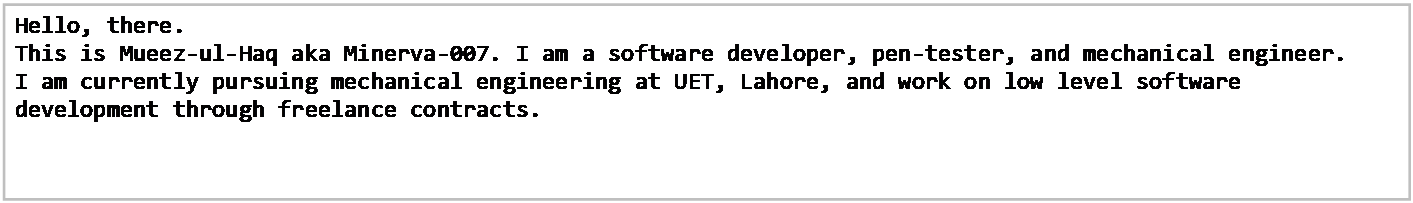
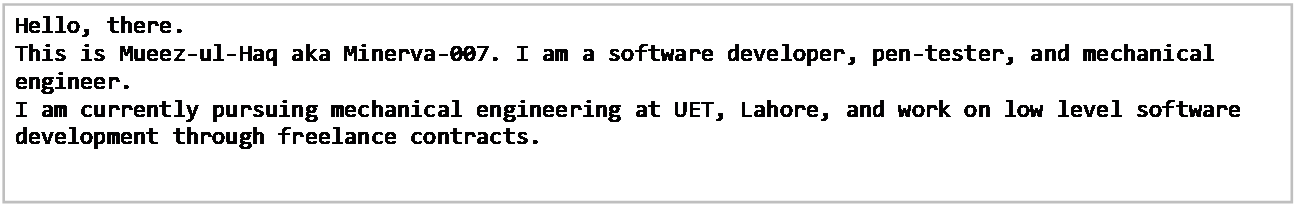
Web building day 1
Adjusting size

diff --git a/index.html b/index.html
@@ -22,10 +22,10 @@ w\:* {behavior:url(#default#VML);}
  <o:DocumentProperties>
   <o:Author>Minerva_007</o:Author>
   <o:LastAuthor>Minerva_007</o:LastAuthor>
-  <o:Revision>3</o:Revision>
-  <o:TotalTime>3</o:TotalTime>
+  <o:Revision>5</o:Revision>
+  <o:TotalTime>19</o:TotalTime>
   <o:Created>2022-06-04T18:52:00Z</o:Created>
-  <o:LastSaved>2022-06-04T18:55:00Z</o:LastSaved>
+  <o:LastSaved>2022-06-04T19:11:00Z</o:LastSaved>
   <o:Pages>1</o:Pages>
   <o:Words>2</o:Words>
   <o:Characters>14</o:Characters>
@@ -827,7 +827,7 @@ mso-bidi-font-size:11.0pt;line-height:115%;font-family:"Segoe Print"'><o:p>&nbsp
  <v:path gradientshapeok="t" o:connecttype="rect"/>
 </v:shapetype><v:shape id="Text_x0020_Box_x0020_2" o:spid="_x0000_s1026"
  type="#_x0000_t202" style='position:absolute;left:0;text-align:left;
- margin-left:160.1pt;margin-top:47.25pt;width:1054.2pt;height:146.1pt;
+ margin-left:220.25pt;margin-top:32.2pt;width:966.05pt;height:148.25pt;
  z-index:251659264;visibility:visible;mso-wrap-style:square;
  mso-width-percent:0;mso-height-percent:0;mso-wrap-distance-left:9pt;
  mso-wrap-distance-top:0;mso-wrap-distance-right:9pt;
@@ -845,27 +845,27 @@ bHOkkMFqwzAMhu+DvYPRfXGawxijTi+j0GvpHsDYimMaW0Yy2fr2M4PBMnrbUb/Q94l/f/hMi1qR
[23 lines of base64/hex data omitted]
-BAAAZHJzL2Rvd25yZXYueG1sUEsFBgAAAAAEAAQA8wAAAM0FAAAAAA==
[18 lines of base64/hex data omitted]
+AQAAX3JlbHMvLnJlbHNQSwECLQAUAAYACAAAACEAHEuixGgCAAAOBQAADgAAAAAAAAAAAAAAAAAu
[1 lines of base64/hex data omitted]
+AADCBAAAZHJzL2Rvd25yZXYueG1sUEsFBgAAAAAEAAQA8wAAANAFAAAAAA==
 " fillcolor="white [3201]" strokecolor="#bfbfbf [2412]" strokeweight="2pt">
  <v:textbox>
   <![if !mso]>
@@ -894,11 +894,11 @@ BAAAZHJzL2Rvd25yZXYueG1sUEsFBgAAAAAEAAQA8wAAAM0FAAAAAA==
 
 <table cellpadding=0 cellspacing=0 align=left>
  <tr>
-  <td width=212 height=61></td>
+  <td width=292 height=41></td>
  </tr>
  <tr>
   <td></td>
-  <td><img width=1413 height=203 src="index_files/image001.png"
+  <td><img width=1296 height=205 src="index_files/image001.png"
   alt="Text Box: Hello, there.&#13;&#10;This is Mueez-ul-Haq aka Minerva-007. I am a software developer, pen-tester, and mechanical engineer.&#13;&#10;I am currently pursuing mechanical engineering at UET, Lahore, and work on low level software development through freelance contracts.&#13;&#10;"
   v:shapes="Text_x0020_Box_x0020_2"></td>
  </tr>
